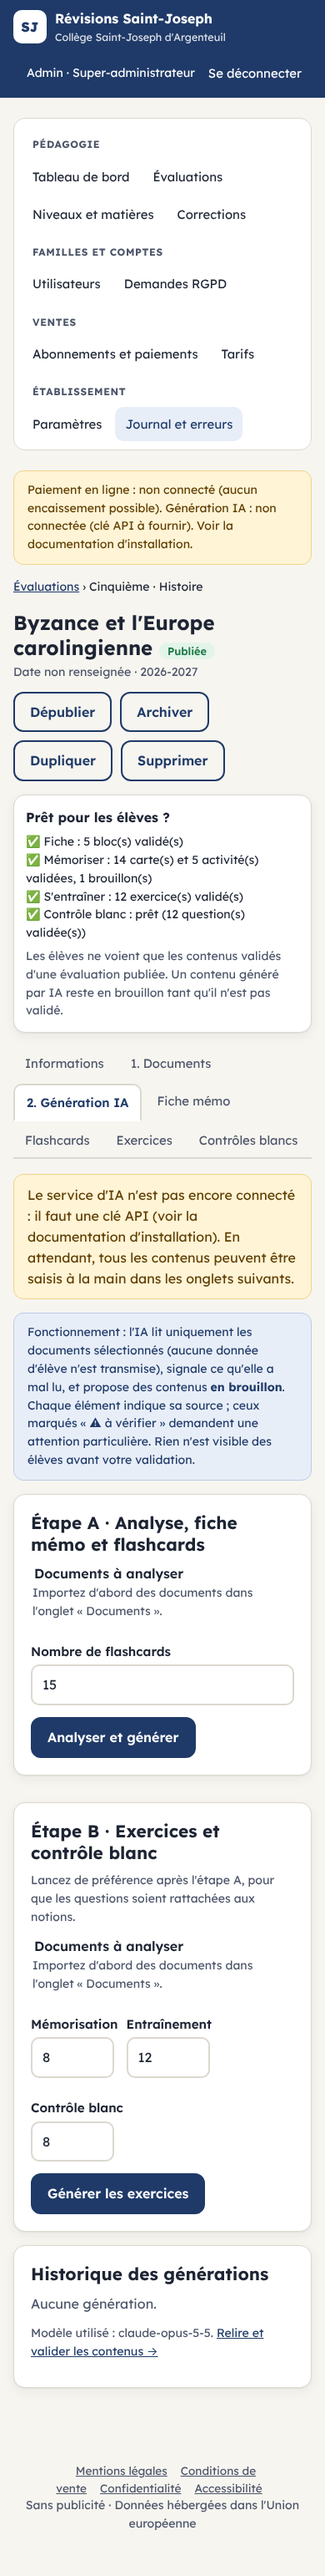
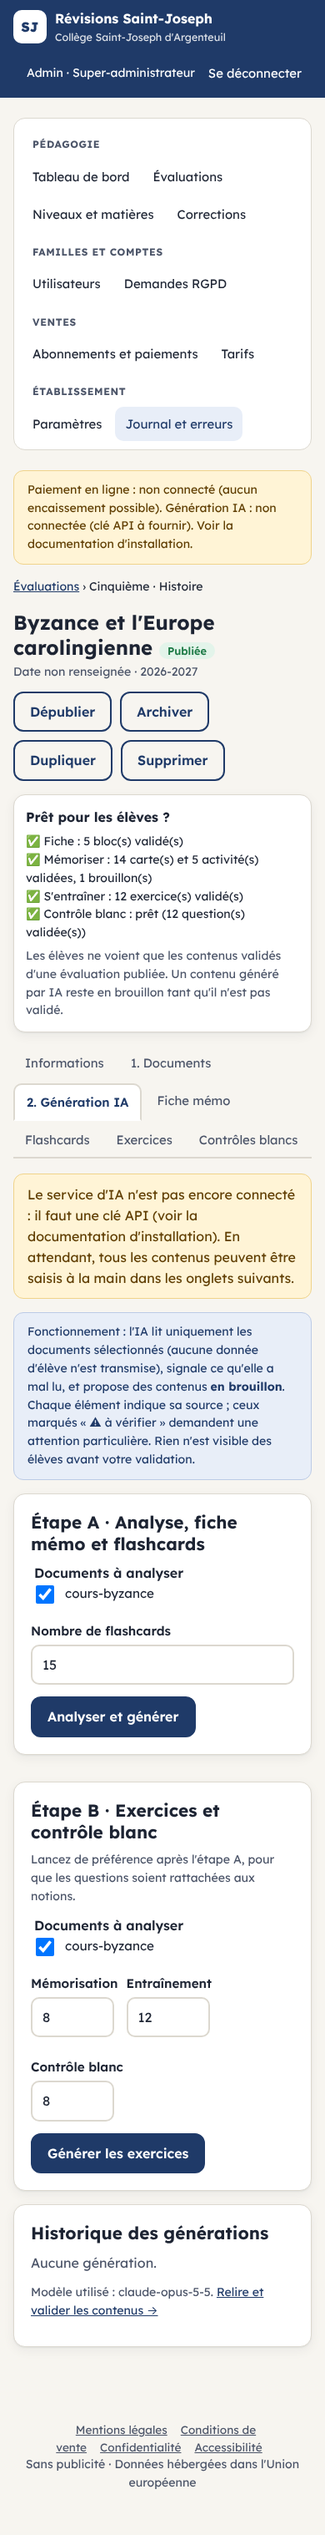
Guide de mise en ligne sur Clever Cloud et stockage des documents en production
Avant : en production, le serveur changeait de dossier au démarrage et les
documents importés étaient rangés dans un dossier effacé à chaque mise à jour.
Aucun guide n'expliquait comment publier le site chez un hébergeur.

Après : les documents sont rangés dans le dossier de stockage prévu (vérifié par
un test d'import dans le navigateur). Un guide pas à pas explique la mise en
ligne sur Clever Cloud (Paris), et `npm run deploy:prepare` applique les
migrations et crée le premier administrateur au démarrage.

Claude-Session: https://claude.ai/code/session_01SumSqXseXp6rERXXDaXnKi

diff --git a/tests/e2e/parcours.spec.ts b/tests/e2e/parcours.spec.ts
@@ -180,6 +180,7 @@ test("une évaluation dépubliée disparaît pour l'élève, un enseignant ne pe
   const admin = await login(browser, "admin@demo.local", "Demo-Admin-2026");
   await admin.goto("/admin/evaluations");
   await admin.getByRole("link", { name: /Byzance et l'Europe carolingienne/ }).first().click();
+  await admin.waitForURL(/\/admin\/evaluations\/[^/]+$/);
   const evalAdminUrl = admin.url();
   await admin.getByRole("button", { name: "Dépublier" }).click();
   await expect(admin.getByRole("button", { name: "Publier" })).toBeVisible();
@@ -192,10 +193,20 @@ test("une évaluation dépubliée disparaît pour l'élève, un enseignant ne pe
 
   const prof = await login(browser, "prof.histoire@demo.local", "Demo-Prof-2026");
   await prof.goto(evalAdminUrl);
-  await expect(prof.getByRole("button", { name: "Publier" })).toHaveCount(0);
+  await expect(prof.getByRole("heading", { name: /Byzance/ })).toBeVisible(); // l'enseignant voit bien l'évaluation…
+  await expect(prof.getByRole("button", { name: "Publier" })).toHaveCount(0); // …sans pouvoir la publier
 
   await admin.getByRole("button", { name: "Publier" }).click();
   await expect(admin.getByRole("button", { name: "Dépublier" })).toBeVisible();
+
+  // import d'un document de cours : stocké dans le dossier privé, puis relu par le lien autorisé
+  await admin.goto(evalAdminUrl + "/documents");
+  await admin.getByLabel("Fichiers").setInputFiles({ name: "cours-byzance.txt", mimeType: "text/plain", buffer: Buffer.from("Constantinople, capitale de l'Empire byzantin.") });
+  await admin.getByRole("button", { name: "Importer" }).click();
+  await expect(admin.locator(".alert-ok")).toBeVisible();
+  const fs = await import("node:fs");
+  const stored = fs.readdirSync("storage-e2e", { recursive: true }).map(String);
+  expect(stored.some((f) => !fs.statSync(`storage-e2e/${f}`).isDirectory())).toBe(true);
   await s.reload();
   await expect(s.getByRole("link", { name: /Byzance/ })).toBeVisible();
 });

diff --git a/lib/storage.ts b/lib/storage.ts
@@ -15,7 +15,9 @@ export const ALLOWED_MIME: Record<string, string> = {
   "text/plain": "txt",
 };
 
-const root = () => path.resolve(process.env.STORAGE_DIR ?? "./storage");
+// Le serveur de production (standalone) change de dossier courant au démarrage :
+// un chemin relatif est donc résolu depuis le dossier où `npm start` a été lancé.
+const root = () => path.resolve(process.env.INIT_CWD ?? process.env.PWD ?? process.cwd(), process.env.STORAGE_DIR ?? "./storage");
 
 /** Vérifie la signature binaire réelle du fichier (et pas seulement l'extension). */
 export function sniffMime(buf: Buffer, declared: string): string | null {

diff --git a/docs/MISE-EN-LIGNE.md b/docs/MISE-EN-LIGNE.md
@@ -1,0 +1,130 @@
+# Mettre la plateforme en ligne, pas à pas
+
+Ce guide ne demande aucune connaissance technique. Comptez environ une heure la première fois.
+
+## Pourquoi pas GitHub Pages ?
+
+GitHub Pages sait afficher des pages **fixes** : c'est pour cela que l'ancien site y fonctionnait. La nouvelle plateforme a besoin d'un **serveur** (pour les comptes, les corrections, les paiements) et d'une **base de données** (pour garder les progrès des élèves). Il faut donc un hébergeur.
+
+Je vous recommande **Clever Cloud** : entreprise française, serveurs à Paris (les données des élèves restent en France), connexion directe à GitHub, HTTPS automatique. À chaque modification du code, le site se met à jour tout seul.
+
+Le parcours se fait en trois temps :
+
+1. Mettre le nouveau code sur GitHub (avec moi, 5 minutes).
+2. Préparer Clever Cloud : une base de données, un espace pour les documents, l'application.
+3. Démarrer, vérifier, se connecter.
+
+---
+
+## Partie 1 : mettre le code sur GitHub
+
+Le nouveau code est prêt sur mon poste de travail mais je ne peux pas l'envoyer sur votre GitHub tant que votre compte n'est pas relié à Claude.
+
+1. Ouvrez **https://claude.ai/connect-github** et connectez votre compte GitHub (SalimaC-syst).
+2. Si GitHub vous propose d'installer l'application **Claude**, choisissez **« Only select repositories »**, cochez **Revisions-Plus**, puis validez.
+3. Écrivez-moi **« c'est fait »** dans ce fil. J'envoie le code et je crée une **demande de fusion** (pull request).
+4. Sur GitHub, ouvrez l'onglet **Demandes de tirage**, cliquez sur ma demande, puis sur le bouton vert **Merge pull request**, puis **Confirm merge**.
+
+Le code est alors sur la branche principale de votre dépôt.
+
+> **À savoir :** l'ancienne page publiée par GitHub Pages ne s'affichera plus après la fusion (elle est rangée dans le dossier `legacy`). C'est normal. Vous pouvez désactiver GitHub Pages dans **Paramètres › Pages**.
+
+---
+
+## Partie 2 : préparer Clever Cloud
+
+### Étape 1. Créer le compte
+
+1. Allez sur **https://console.clever-cloud.com** et choisissez **« Se connecter avec GitHub »**. C'est le plus simple : Clever Cloud verra directement votre dépôt.
+2. Créez une **organisation** au nom de l'établissement (par exemple « Collège Saint-Joseph Argenteuil »). Les factures seront à ce nom.
+3. Ajoutez un **moyen de paiement** dans l'organisation. La console affiche le prix de chaque élément avant que vous le validiez.
+
+### Étape 2. Créer la base de données
+
+1. Cliquez sur **Créer** › **un add-on** › **PostgreSQL**.
+2. Choisissez une petite offre **payante**. Évitez l'offre gratuite « DEV », qui est réservée aux essais.
+3. Région : **Paris**. Nom : `revisions-base`.
+4. Une fois créée, ouvrez-la. Dans **Informations de l'add-on**, repérez la ligne **Connection URI**, qui commence par `postgresql://`. **Gardez cette page ouverte**, vous en aurez besoin à l'étape 5.
+
+### Étape 3. Créer l'espace pour les documents de cours
+
+1. **Créer** › **un add-on** › **FS Bucket**. Région : **Paris**. Nom : `revisions-documents`.
+2. Une fois créé, repérez son **hôte** (*host*) : une adresse qui se termine par `fsbucket.services.clever-cloud.com`. **Gardez-la aussi.**
+
+### Étape 4. Créer l'application
+
+1. **Créer** › **une application** › choisissez le dépôt **Revisions-Plus**.
+2. Type : **Node.js**. Taille : **S**. Région : **Paris**. Nom : `revisions-saint-joseph`.
+3. Quand Clever Cloud propose de **lier des add-ons**, cochez `revisions-base` et `revisions-documents`.
+4. Clever Cloud lance tout de suite un premier démarrage. **Il va échouer : c'est normal**, les réglages de l'étape suivante manquent encore.
+5. Dans **Noms de domaine**, notez l'adresse qui se termine par `.cleverapps.io`. C'est l'adresse provisoire de votre site.
+
+### Étape 5. Entrer les réglages
+
+Dans l'application, ouvrez **Variables d'environnement**, puis passez en **mode expert** (une grande zone de texte). Collez le bloc ci-dessous **après avoir remplacé les quatre parties entre crochets** :
+
+```
+NODE_ENV=production
+CC_NODE_DEV_DEPENDENCIES=install
+CC_POST_BUILD_HOOK=npm run build
+CC_PRE_RUN_HOOK=npm run deploy:prepare
+PORT=8080
+HOSTNAME=0.0.0.0
+STORAGE_DIR=./storage
+CC_FS_BUCKET=/storage:[hôte du FS Bucket, étape 3]
+DATABASE_URL=[Connection URI de la base, étape 2]
+APP_URL=https://[adresse .cleverapps.io, étape 4]
+SEED_ADMIN_EMAIL=[votre adresse e-mail]
+SEED_ADMIN_PASSWORD=[un mot de passe d'au moins 12 caractères]
+```
+
+Cliquez sur **Mettre à jour les changements**.
+
+Ces deux dernières lignes servent uniquement à créer **votre compte de super-administrateur** au premier démarrage. Vous les retirerez ensuite (étape 8).
+
+---
+
+## Partie 3 : démarrer et vérifier
+
+### Étape 6. Démarrer
+
+1. Dans l'application, cliquez sur **Redémarrer** (choisissez la reconstruction complète si on vous le propose).
+2. Ouvrez **Journaux** pour suivre l'avancement. La construction prend quelques minutes.
+3. C'est prêt quand la ligne `Ready` apparaît.
+
+> **Si la construction échoue avec « out of memory »** : dans **Informations**, activez une **instance de construction dédiée** plus grande, puis redémarrez.
+
+### Étape 7. Vérifier
+
+1. Ouvrez `https://[votre-adresse].cleverapps.io/api/health`. Vous devez lire `{"status":"ok"}`.
+2. Ouvrez `https://[votre-adresse].cleverapps.io` : la page d'accueil de Révisions Saint-Joseph s'affiche.
+
+### Étape 8. Première connexion et sécurité
+
+1. Cliquez sur **Se connecter** et utilisez l'e-mail et le mot de passe de l'étape 5.
+2. **Retirez immédiatement** les lignes `SEED_ADMIN_EMAIL` et `SEED_ADMIN_PASSWORD` des variables d'environnement, puis cliquez sur **Mettre à jour les changements**. Votre compte reste actif.
+3. Dans **Administration › Paramètres**, complétez les mentions légales et, si vous avez l'autorisation écrite, ajoutez le logo.
+
+Le site est en ligne. Le module d'histoire 5e est présent **en brouillon** : il n'est visible des élèves qu'après relecture par l'enseignant et publication.
+
+---
+
+## Plus tard, quand vous serez prête
+
+Chaque point ci-dessous consiste à ajouter une ou deux lignes dans **Variables d'environnement**, puis à cliquer sur **Redémarrer**.
+
+| Quoi | Où | Lignes à ajouter |
+|---|---|---|
+| **Votre propre adresse** (par ex. revisions.stjosephargenteuil.fr) | **Noms de domaine** de l'application, puis un enregistrement à créer chez votre fournisseur de domaine (Clever Cloud indique lequel) | Remplacer `APP_URL` par la nouvelle adresse |
+| **Paiement Stripe** | Voir la partie 4 du [guide d'installation](INSTALLATION.md). L'adresse du webhook est `https://[votre-adresse]/api/stripe/webhook` | `STRIPE_SECRET_KEY` et `STRIPE_WEBHOOK_SECRET` |
+| **Génération IA** | console.anthropic.com › clé API | `ANTHROPIC_API_KEY` |
+
+Commencez Stripe avec une clé **de test** (`sk_test_…`) pour faire un paiement d'essai avec la carte 4242 4242 4242 4242, avant de passer à la clé réelle.
+
+**Sauvegardes** : vérifiez dans l'add-on PostgreSQL que les sauvegardes automatiques sont actives, et notez leur durée de conservation.
+
+---
+
+## Si quelque chose bloque
+
+Copiez les dernières lignes des **Journaux** de l'application et collez-les-moi dans ce fil : je vous dirai quoi corriger.

diff --git a/docs/INSTALLATION.md b/docs/INSTALLATION.md
@@ -13,6 +13,7 @@ Chaque environnement a son propre fichier `.env`, sa propre base et son propre d
 ## 2. Hébergement recommandé
 
 - **Dans l'Union européenne** (données de mineurs). Par exemple : Scaleway, OVHcloud, Clever Cloud ou un serveur virtuel (VPS) en France. PostgreSQL managé de préférence.
+- Pas à pas recommandé : [Mettre en ligne sur Clever Cloud](MISE-EN-LIGNE.md).
 - **HTTPS obligatoire**, par exemple avec Caddy ou Nginx et un certificat Let's Encrypt devant le port 3000.
 - Ressources minimales : 1 vCPU, 2 Go de RAM, 20 Go de disque.
 

diff --git a/README.md b/README.md
@@ -40,6 +40,7 @@ Comptes de démonstration créés par `SEED_DEMO=1` :
 
 ## Documentation
 
+- [Mettre en ligne pas à pas (Clever Cloud)](docs/MISE-EN-LIGNE.md)
 - [Installation, hébergement et maintenance](docs/INSTALLATION.md)
 - [Guide de l'administrateur et des enseignants](docs/GUIDE-ADMIN.md)
 - [Rapport de test](docs/RAPPORT-DE-TEST.md)
